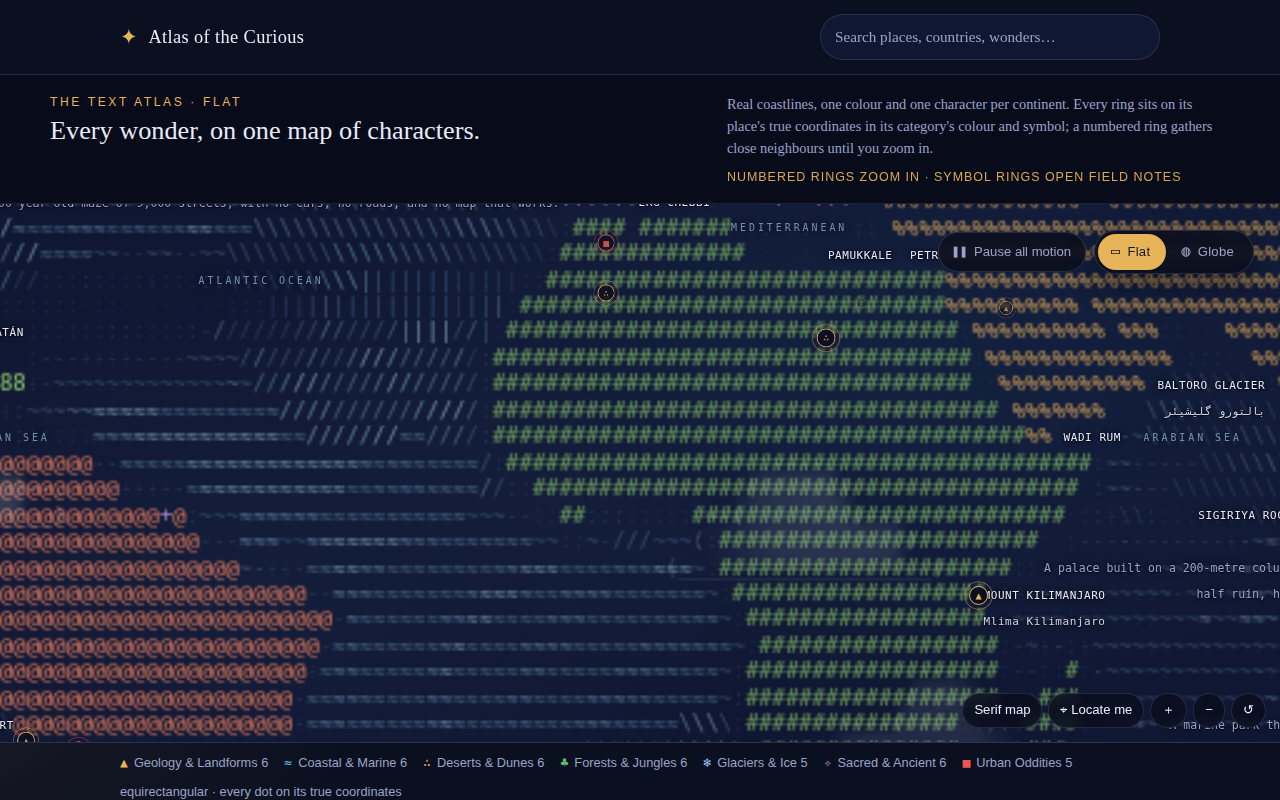
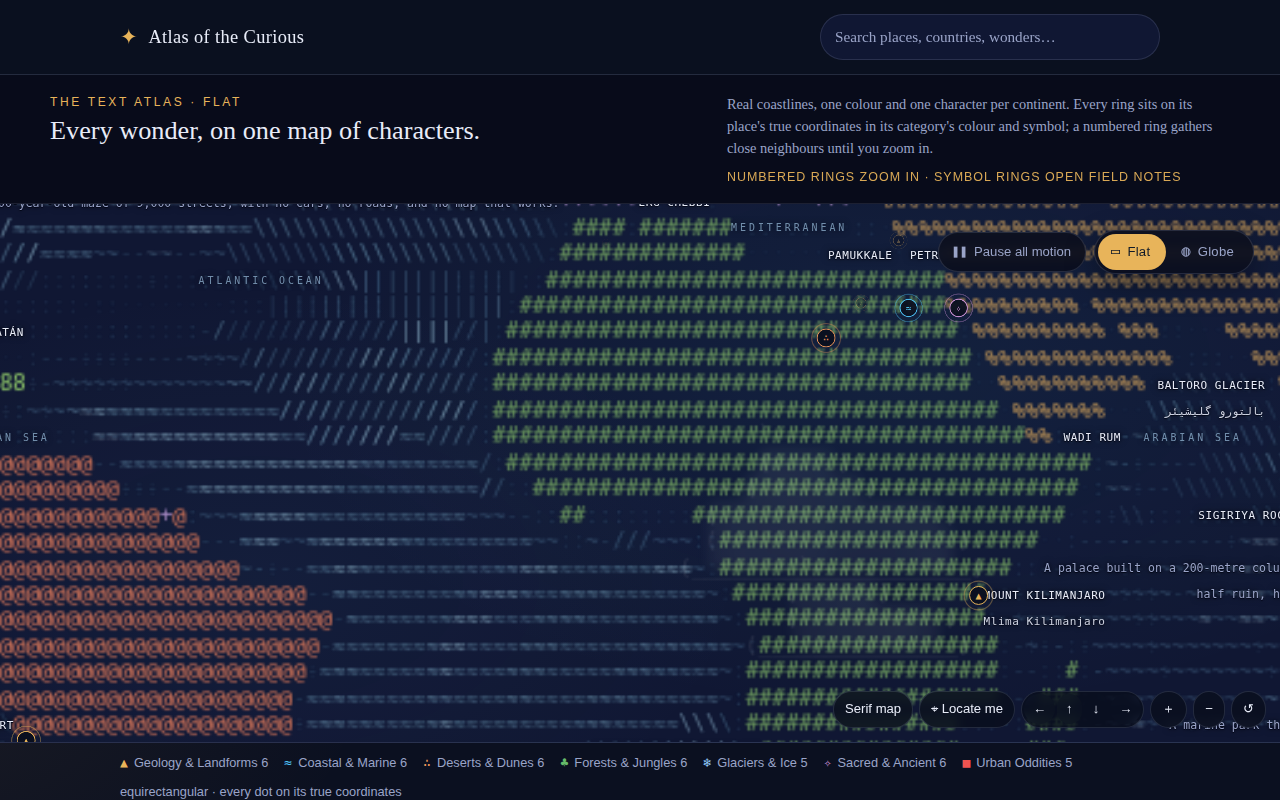
Address review round 19: flat pan buttons, phone bar, marker focus, labels
- A zoomed flat map shows pan buttons, so it can be moved without dragging.
- The phone globe band is shorter so its whole toolbar sits on screen in
  two rows.
- Globe markers get a solid focus ring distinct from the hover glow.
- Map buttons and the preview location/action labels are larger (the
  tagline keeps its size: its three-line budget is validated).

diff --git a/js/map.js b/js/map.js
@@ -1963,6 +1963,9 @@ import {
     // Touch policy: at 1x a vertical swipe scrolls the page (the map has
     // nothing to pan); a zoomed map takes one-finger pans as its own.
     if (stage) stage.style.touchAction = view.zoom > 1.001 ? "none" : "pan-y";
+    // Pan buttons, for anyone who cannot drag; only a zoomed map can pan.
+    const panPad = document.querySelector(".pan-pad");
+    if (panPad) panPad.hidden = !(view.zoom > 1.001);
     reclusterFlat(false);
     // Panning moves labels with the map and changes nothing about where they
     // fit; only a zoom does. Re-route when the tier flips or the zoom has
@@ -4284,6 +4287,15 @@ import {
     const zin = $("map-zoom-in");
     const zout = $("map-zoom-out");
     const zreset = $("map-zoom-reset");
+    const PAN_STEP = { left: [1, 0], right: [-1, 0], up: [0, 1], down: [0, -1] };
+    for (const b of document.querySelectorAll("[data-pan]")) {
+      b.addEventListener("click", () => {
+        const [dx, dy] = PAN_STEP[b.dataset.pan];
+        vpW = viewport.clientWidth || vpW; vpH = viewport.clientHeight || vpH;
+        panX += dx * vpW * 0.2; panY += dy * vpH * 0.2;
+        clampPan(); applyView();
+      });
+    }
     if (zin) zin.addEventListener("click", () => { vpW = viewport.clientWidth || vpW; vpH = viewport.clientHeight || vpH; zoomTo(view.zoom * 1.3, vpW / 2, vpH / 2); });
     if (zout) zout.addEventListener("click", () => { vpW = viewport.clientWidth || vpW; vpH = viewport.clientHeight || vpH; zoomTo(view.zoom / 1.3, vpW / 2, vpH / 2); });
     if (zreset) zreset.addEventListener("click", () => { view.zoom = 1; panX = 0; panY = 0; vpW = viewport.clientWidth || vpW; vpH = viewport.clientHeight || vpH; applyView(); });

diff --git a/css/globe.css b/css/globe.css
@@ -231,6 +231,8 @@
   box-shadow: 0 0 0 4px color-mix(in srgb, var(--accent) 25%, transparent), 0 0 16px 3px color-mix(in srgb, var(--accent) 45%, transparent);
 }
 .globe-marker.is-dimmed { pointer-events: none; }
+/* Keyboard focus is a solid ring, distinct from the hover glow. */
+.globe-marker:focus-visible { outline: 2px solid var(--ink); outline-offset: 2px; }
 
 /* The globe's hover card is the atlas card; it is shown with `hidden`
    rather than the flat map's fade class, and is sized by place-layer.js. */
@@ -420,10 +422,15 @@
   .map-controls .map-btn { padding: 6px 10px; }
   #map-locate { font-size: 0; }
   #map-locate::first-letter { font-size: 0.8rem; }
-  .atlas[data-view="globe"] .map-viewport { height: min(100vw, 420px); }
+  .atlas[data-view="globe"] .map-viewport { height: min(90vw, 360px); }
+  .map-toolbar { padding: 6px 10px; gap: 6px; }
   .globe-stage { top: 0; bottom: 0; }
   /* Three even rows: detail and zoom, movement, appearance. */
-  .globe-controls .appearance-group { flex: 1 0 100%; justify-content: flex-end; }
+  /* Two rows on a phone: detail, zoom and movement first; rotation and
+     appearance share the second, compact, so all stay near the globe. */
+  .globe-controls .appearance-group { justify-content: flex-end; }
+  .globe-controls .turn-pad .map-btn { padding: 4px 6px; }
+  .globe-controls #rotate-toggle { padding: 6px 10px; }
   /* Two deliberate rows, in DOM (and focus) order: what to see (detail,
      zoom), then how to move it. */
   .map-toolbar .globe-controls { justify-content: space-between; row-gap: 8px; }

diff --git a/index.html b/index.html
@@ -100,7 +100,13 @@
             <button class="map-btn" id="map-serif" type="button" aria-pressed="false">Serif map</button>
             <button class="map-btn" id="map-art-clear" type="button" hidden>Clear story</button>
             <button class="map-btn" id="map-locate" type="button" title="Show where I am on the map">⌖ Locate me</button>
-            <button class="map-btn" id="map-zoom-in" type="button" aria-label="Zoom in" title="Zoom in (+)">＋</button>
+            <div class="turn-pad pan-pad" role="group" aria-label="Pan the map" hidden>
+            <button class="map-btn" type="button" data-pan="left" aria-label="Pan west" title="Pan west (←)">←</button>
+            <button class="map-btn" type="button" data-pan="up" aria-label="Pan north" title="Pan north (↑)">↑</button>
+            <button class="map-btn" type="button" data-pan="down" aria-label="Pan south" title="Pan south (↓)">↓</button>
+            <button class="map-btn" type="button" data-pan="right" aria-label="Pan east" title="Pan east (→)">→</button>
+          </div>
+          <button class="map-btn" id="map-zoom-in" type="button" aria-label="Zoom in" title="Zoom in (+)">＋</button>
             <button class="map-btn" id="map-zoom-out" type="button" aria-label="Zoom out" title="Zoom out (−)">−</button>
             <button class="map-btn" id="map-zoom-reset" type="button" aria-label="Reset map view" title="Reset view">↺</button>
           </div>

diff --git a/css/fonts.css b/css/fonts.css
@@ -94,10 +94,10 @@
   --font-hover-name: normal 1.02rem var(--font-serif);
   --lh-hover-name: 1.55;
   --ls-hover-name: 0px;
-  --font-hover-loc: normal 0.66rem var(--font-sans);
+  --font-hover-loc: normal 0.76rem var(--font-sans);
   --lh-hover-loc: 1.55;
   --ls-hover-loc: 0.08em;
-  --font-hover-cta: normal 0.72rem var(--font-sans);
+  --font-hover-cta: normal 0.8rem var(--font-sans);
   --lh-hover-cta: 1.55;
   --ls-hover-cta: 0.04em;
 

diff --git a/css/style.css b/css/style.css
@@ -1012,7 +1012,7 @@ dialog::backdrop {
 .map-btn {
   font: inherit;
   font-family: Verdana, Geneva, sans-serif;
-  font-size: 0.72rem;
+  font-size: 0.8rem;
   color: var(--ink);
   background: rgba(9, 13, 28, 0.82);
   border: 1px solid var(--line);
